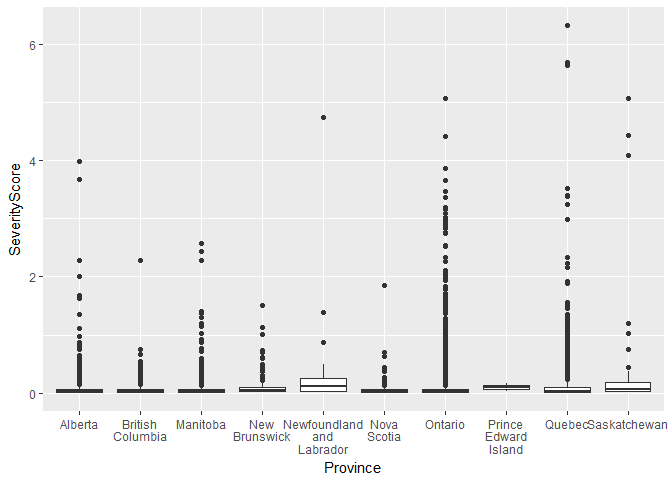
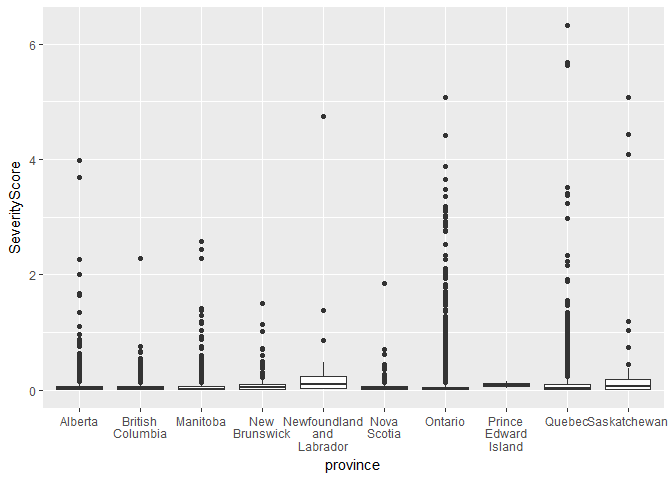
Adding fatality data and standardizing variable names for consistency

diff --git a/Analysis/Analyzing-Hazard-Data.md b/Analysis/Analyzing-Hazard-Data.md
@@ -8,6 +8,7 @@ Setup
 
 ``` r
 library(tidyverse)
+library(ggmap)
 ```
 
 ``` r
@@ -47,7 +48,7 @@ This is the hazardous driving dataset in its out-of-the-box form from GeoTab. Th
 ``` r
 hazardcan <- hazarddat %>%
   filter(Country == "Canada") %>%
-  rename(Province = State)
+  rename(province = State)
 ```
 
 This is a big data frame with over 10000 observations and 23 variables. Are all of these variables useful?
@@ -68,14 +69,14 @@ A very basic first step is to simply determine which province has the highest nu
 
 ``` r
 incidentprov <- hazardcan %>%
-  group_by(Province) %>%
+  group_by(province) %>%
   summarise(TotalIncidents = sum(NumberIncidents))
 
 incidentprov
 ```
 
     ## # A tibble: 10 x 2
-    ##    Province                  TotalIncidents
+    ##    province                  TotalIncidents
     ##    <fctr>                             <int>
     ##  1 Alberta                             4968
     ##  2 British Columbia                    6158
@@ -94,18 +95,18 @@ This table shows that Ontario has the highest total number of hazardous driving 
 populationprov <- read.csv("population.csv") %>%
   select(c(2,4)) %>%
   slice(c(2:11)) %>%
-  rename(Province = Geographic.name) %>%
-  rename(Population = Population..2016)
+  rename(province = Geographic.name) %>%
+  rename(population = Population..2016)
 
 incidentprov <- incidentprov %>%
-  inner_join(populationprov, by = "Province") %>%
-  mutate(IncidentsPerCapita = TotalIncidents / Population)
+  inner_join(populationprov, by = "province") %>%
+  mutate(incidents_per_cap = TotalIncidents / population)
 
 plotprov <- incidentprov
 
-plotprov$Province <- gsub(" ", "\n", plotprov$Province)
+plotprov$province <- gsub(" ", "\n", plotprov$province)
 
-ggplot(plotprov, aes(reorder(Province, IncidentsPerCapita), IncidentsPerCapita)) +
+ggplot(plotprov, aes(reorder(province, incidents_per_cap), incidents_per_cap)) +
   geom_bar(stat="identity") + labs(x = "Province") + 
   theme(axis.text.x = element_text(size = 8), )
 ```
@@ -120,10 +121,10 @@ Severity Score
 ``` r
 plotcan <- hazardcan
 
-plotcan$Province <- gsub(" ", "\n", plotcan$Province)
+plotcan$province <- gsub(" ", "\n", plotcan$province)
 
 plotcan %>%
-  ggplot(aes(Province, SeverityScore)) + geom_boxplot()
+  ggplot(aes(province, SeverityScore)) + geom_boxplot()
 ```
 
 ![](Analyzing-Hazard-Data_files/figure-markdown_github/unnamed-chunk-7-1.png)
@@ -132,7 +133,7 @@ Not very useful, unfortunately, so lets focus in on the lower ranges.
 
 ``` r
 plotcan %>%
-  ggplot(aes(reorder(Province, SeverityScore, median), SeverityScore)) + geom_boxplot() +
+  ggplot(aes(reorder(province, SeverityScore, median), SeverityScore)) + geom_boxplot() +
   coord_cartesian(ylim = c(0, 2)) + labs(x = "Province") + 
   theme(axis.text.x = element_text(size = 8), )
 ```
@@ -143,7 +144,7 @@ It seems that Newfoundland has the highest median Severity Score for its hazardo
 
 ``` r
 hazardcan %>%
-  filter(Province == "Newfoundland and Labrador") %>%
+  filter(province == "Newfoundland and Labrador") %>%
   count()
 ```
 
@@ -154,7 +155,7 @@ hazardcan %>%
 
 ``` r
 hazardcan %>%
-  filter(Province == "Prince Edward Island") %>%
+  filter(province == "Prince Edward Island") %>%
   count()
 ```
 
@@ -165,7 +166,7 @@ hazardcan %>%
 
 ``` r
 hazardcan %>%
-  filter(Province == "Saskatchewan") %>%
+  filter(province == "Saskatchewan") %>%
   count()
 ```
 
@@ -178,17 +179,17 @@ Of the three provinces with the highest median severity scores, none has more th
 
 ``` r
 severityprov <- hazardcan %>%
-  group_by(Province) %>%
-  summarise(Areas = n()) %>%
-  inner_join(populationprov, by = "Province") %>%
-  mutate(AreasPerCapita = Areas / Population)
+  group_by(province) %>%
+  summarise(areas = n()) %>%
+  inner_join(populationprov, by = "province") %>%
+  mutate(areas_per_cap = areas / population)
 
 plotseverityprov <- severityprov
 
-plotseverityprov$Province <- gsub(" ", "\n", plotseverityprov$Province)
+plotseverityprov$province <- gsub(" ", "\n", plotseverityprov$province)
 
 plotseverityprov %>%
-  ggplot(aes(reorder(Province, AreasPerCapita),AreasPerCapita)) + 
+  ggplot(aes(reorder(province, areas_per_cap), areas_per_cap)) + 
   geom_bar(stat = "identity") + labs(x = "Province") + 
   theme(axis.text.x = element_text(size = 8))
 ```
@@ -204,57 +205,57 @@ At this point we need to decide on a definition of hazardous driving. Is it more
 
 ``` r
 hazardcan %>%
-  group_by(Province) %>%
-  summarise(medianSS = median(SeverityScore)) %>%
-  arrange(-medianSS)
+  group_by(province) %>%
+  summarise(median_sev = median(SeverityScore)) %>%
+  arrange(-median_sev)
 ```
 
     ## # A tibble: 10 x 2
-    ##    Province                  medianSS
-    ##    <fctr>                       <dbl>
-    ##  1 Newfoundland and Labrador   0.108 
-    ##  2 Prince Edward Island        0.0906
-    ##  3 Saskatchewan                0.0668
-    ##  4 New Brunswick               0.0510
-    ##  5 Quebec                      0.0364
-    ##  6 British Columbia            0.0310
-    ##  7 Alberta                     0.0261
-    ##  8 Nova Scotia                 0.0260
-    ##  9 Ontario                     0.0219
-    ## 10 Manitoba                    0.0216
+    ##    province                  median_sev
+    ##    <fctr>                         <dbl>
+    ##  1 Newfoundland and Labrador     0.108 
+    ##  2 Prince Edward Island          0.0906
+    ##  3 Saskatchewan                  0.0668
+    ##  4 New Brunswick                 0.0510
+    ##  5 Quebec                        0.0364
+    ##  6 British Columbia              0.0310
+    ##  7 Alberta                       0.0261
+    ##  8 Nova Scotia                   0.0260
+    ##  9 Ontario                       0.0219
+    ## 10 Manitoba                      0.0216
 
 This is a table of the median severity scores,
 
 ``` r
 hazardcan %>%
-  group_by(Province) %>%
-  summarise(meanSS = mean(SeverityScore)) %>%
-  arrange(-meanSS)
+  group_by(province) %>%
+  summarise(mean_sev = mean(SeverityScore)) %>%
+  arrange(-mean_sev)
 ```
 
     ## # A tibble: 10 x 2
-    ##    Province                  meanSS
-    ##    <fctr>                     <dbl>
-    ##  1 Saskatchewan              0.439 
-    ##  2 Newfoundland and Labrador 0.272 
-    ##  3 New Brunswick             0.130 
-    ##  4 Quebec                    0.115 
-    ##  5 Alberta                   0.109 
-    ##  6 Prince Edward Island      0.0906
-    ##  7 Manitoba                  0.0863
-    ##  8 Ontario                   0.0808
-    ##  9 British Columbia          0.0660
-    ## 10 Nova Scotia               0.0603
+    ##    province                  mean_sev
+    ##    <fctr>                       <dbl>
+    ##  1 Saskatchewan                0.439 
+    ##  2 Newfoundland and Labrador   0.272 
+    ##  3 New Brunswick               0.130 
+    ##  4 Quebec                      0.115 
+    ##  5 Alberta                     0.109 
+    ##  6 Prince Edward Island        0.0906
+    ##  7 Manitoba                    0.0863
+    ##  8 Ontario                     0.0808
+    ##  9 British Columbia            0.0660
+    ## 10 Nova Scotia                 0.0603
 
 These are very different distributions, and the reason why can be seen if we re-examine the distributions of severity for each province.
 
 ``` r
 plotcan <- hazardcan
 
-plotcan$Province <- gsub(" ", "\n", plotcan$Province)
+plotcan$province <- gsub(" ", "\n", plotcan$province)
 
 plotcan %>%
-  ggplot(aes(Province, SeverityScore)) + geom_boxplot()
+  ggplot(aes(province, SeverityScore)) + geom_boxplot()
 ```
 
 ![](Analyzing-Hazard-Data_files/figure-markdown_github/unnamed-chunk-13-1.png)
@@ -270,22 +271,22 @@ We're going to attempt to normalize both areas per capita and mean severity so t
 
 ``` r
 hazardcan %>%
-  group_by(Province) %>%
+  group_by(province) %>%
   summarize(mean_sev = mean(SeverityScore), areas = n()) %>%
-  inner_join(populationprov, by = "Province") %>%
-  mutate(areas_per_cap = areas / Population) %>%
+  inner_join(populationprov, by = "province") %>%
+  mutate(areas_per_cap = areas / population) %>%
   mutate(norm_mean_sev = (mean_sev - min(mean_sev)) / 
                          (max(mean_sev) - min(mean_sev)), 
          norm_areas_per_cap = (areas_per_cap - min(areas_per_cap)) /
                               (max(areas_per_cap) - min(areas_per_cap))) %>%
   mutate(score = ((norm_mean_sev + norm_areas_per_cap) / 2)) %>% 
   mutate(rank = as.integer(rank(-score))) %>%
-  select(Province, score, rank) %>%
+  select(province, score, rank) %>%
   arrange(rank)
 ```
 
     ## # A tibble: 10 x 3
-    ##    Province                   score  rank
+    ##    province                   score  rank
     ##    <chr>                      <dbl> <int>
     ##  1 Manitoba                  0.534      1
     ##  2 Saskatchewan              0.531      2
@@ -298,4 +299,51 @@ hazardcan %>%
     ##  9 British Columbia          0.149      9
     ## 10 Prince Edward Island      0.0401    10
 
-We then combined the two normalized scales into one value, and then ranked the provinces based on this value.
+We then combined the two normalized scales into one value, and then ranked the provinces based on this value. Using this ranking, we determine that Manitoba is the most dangerous province to drive in, closely followed by Saskatchewan. PEI is the safest province, by a large margin.
+
+Adding more data
+----------------
+
+This ranking is good as is, but we would like to know if adding other data can improve these rankings. The issue with the Geotab data is that it comes only from vehicles that are in their network of sensors. Most of their network is composed of trucks, with cars making up a small portion of the fleet. This can lead to areas with heavy trucking being overrated in terms of hazard, while areas with low trucking may be underrated. As well, the Severity Score calculated by Geotab does not take into account the number of victims of each incident.
+
+``` r
+province_fat <- data_frame(
+  province = c("Newfoundland and Labrador", "Prince Edward Island", "Nova Scotia", 
+               "New Brunswick","Quebec", "Ontario", "Manitoba", "Saskatchewan", 
+               "Alberta", "British Columbia"),
+  fat_per_bvk = c(8.2, 12.3, 4.8, 6.0, 4.9, 3.7, 5.5, 8.7, 5.5, 7.7)
+)
+
+hazardcan %>%
+  group_by(province) %>%
+  summarize(mean_sev = mean(SeverityScore), areas = n()) %>%
+  inner_join(populationprov, by = "province") %>%
+  mutate(areas_per_cap = areas / population) %>%
+  inner_join(province_fat, by = "province") %>%
+  mutate(norm_mean_sev = (mean_sev - min(mean_sev)) / 
+                         (max(mean_sev) - min(mean_sev)), 
+         norm_areas_per_cap = (areas_per_cap - min(areas_per_cap)) /
+                              (max(areas_per_cap) - min(areas_per_cap)),
+         norm_fat_per_bvk = (fat_per_bvk - min(fat_per_bvk)) /
+                            (max(fat_per_bvk) - min(fat_per_bvk))) %>%
+  mutate(score = ((norm_mean_sev + norm_areas_per_cap + norm_fat_per_bvk) / 3)) %>% 
+  mutate(rank = as.integer(rank(-score))) %>%
+  select(province, score, rank) %>%
+  arrange(rank)
+```
+
+    ## # A tibble: 10 x 3
+    ##    province                  score  rank
+    ##    <chr>                     <dbl> <int>
+    ##  1 Saskatchewan              0.548     1
+    ##  2 Manitoba                  0.426     2
+    ##  3 Newfoundland and Labrador 0.420     3
+    ##  4 Prince Edward Island      0.360     4
+    ##  5 Ontario                   0.329     5
+    ##  6 Quebec                    0.275     6
+    ##  7 New Brunswick             0.258     7
+    ##  8 British Columbia          0.255     8
+    ##  9 Nova Scotia               0.225     9
+    ## 10 Alberta                   0.188    10
+
+This updated ranking takes into account the Canadian Motor Vehicle Traffic Collision Statistics for 2015 collected by the Government of Canada, specifically the data that tracks traffic fatalities per billion vehicle-kilometres. What we see immediately is that PEI jumps up from the bottom to 4th most dangerous province. PEI has by far the most fatalities per billion vehicle-kilometres, meaning that it's ridiculously low-score in the old ranking is not indicative of the realities of driving in the province.
